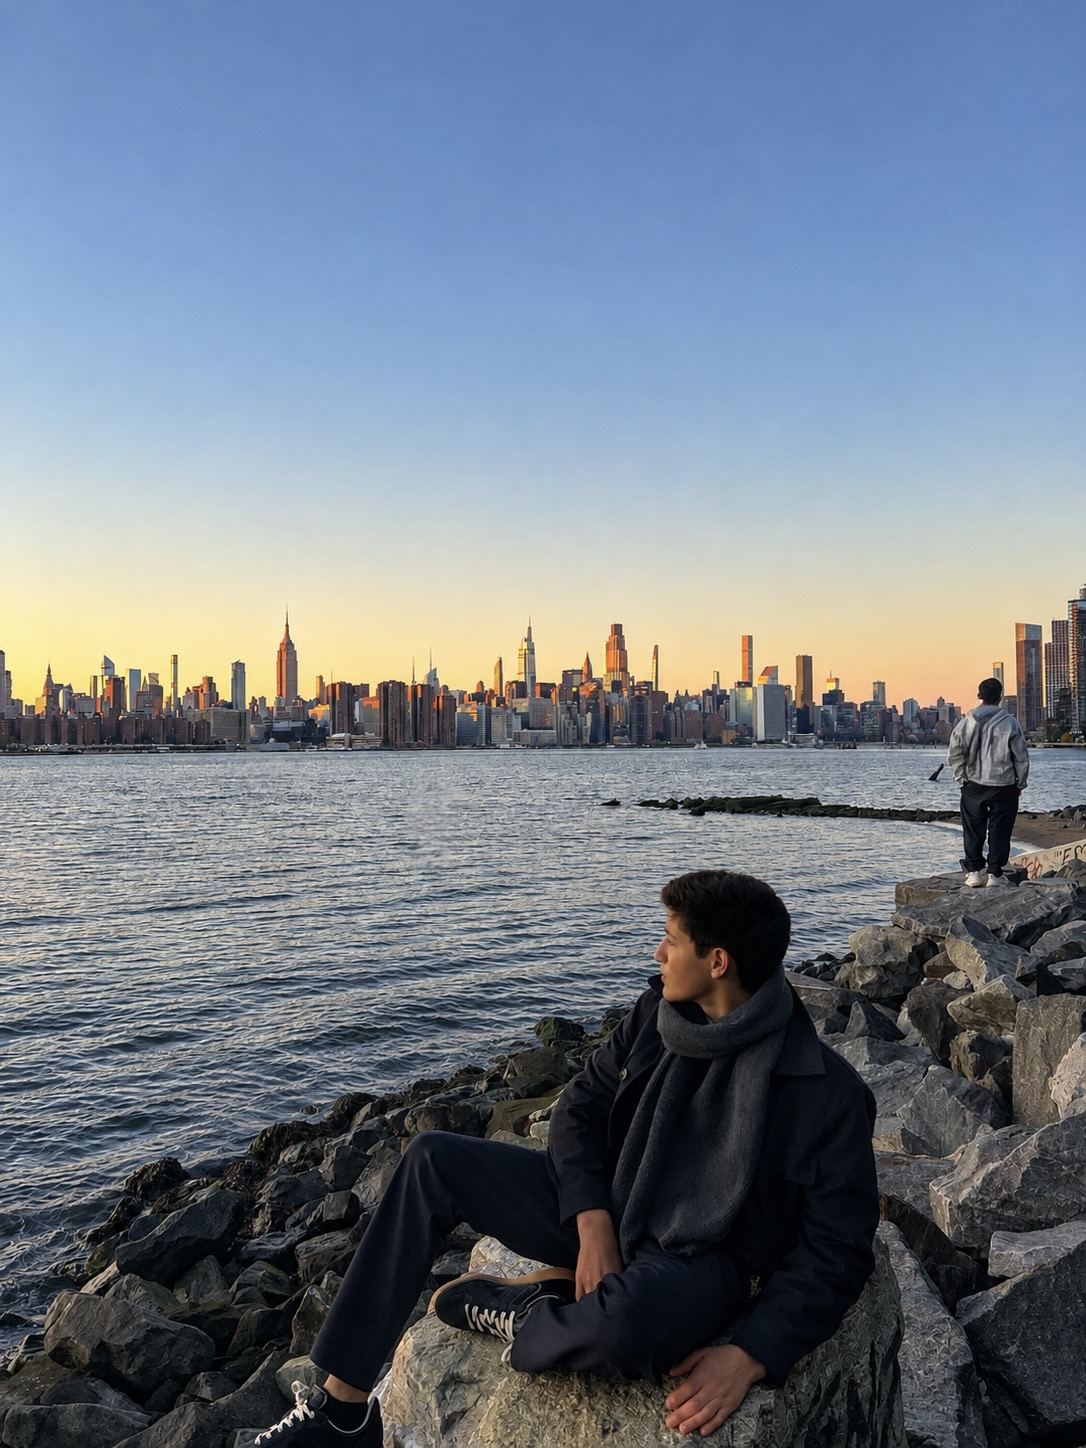
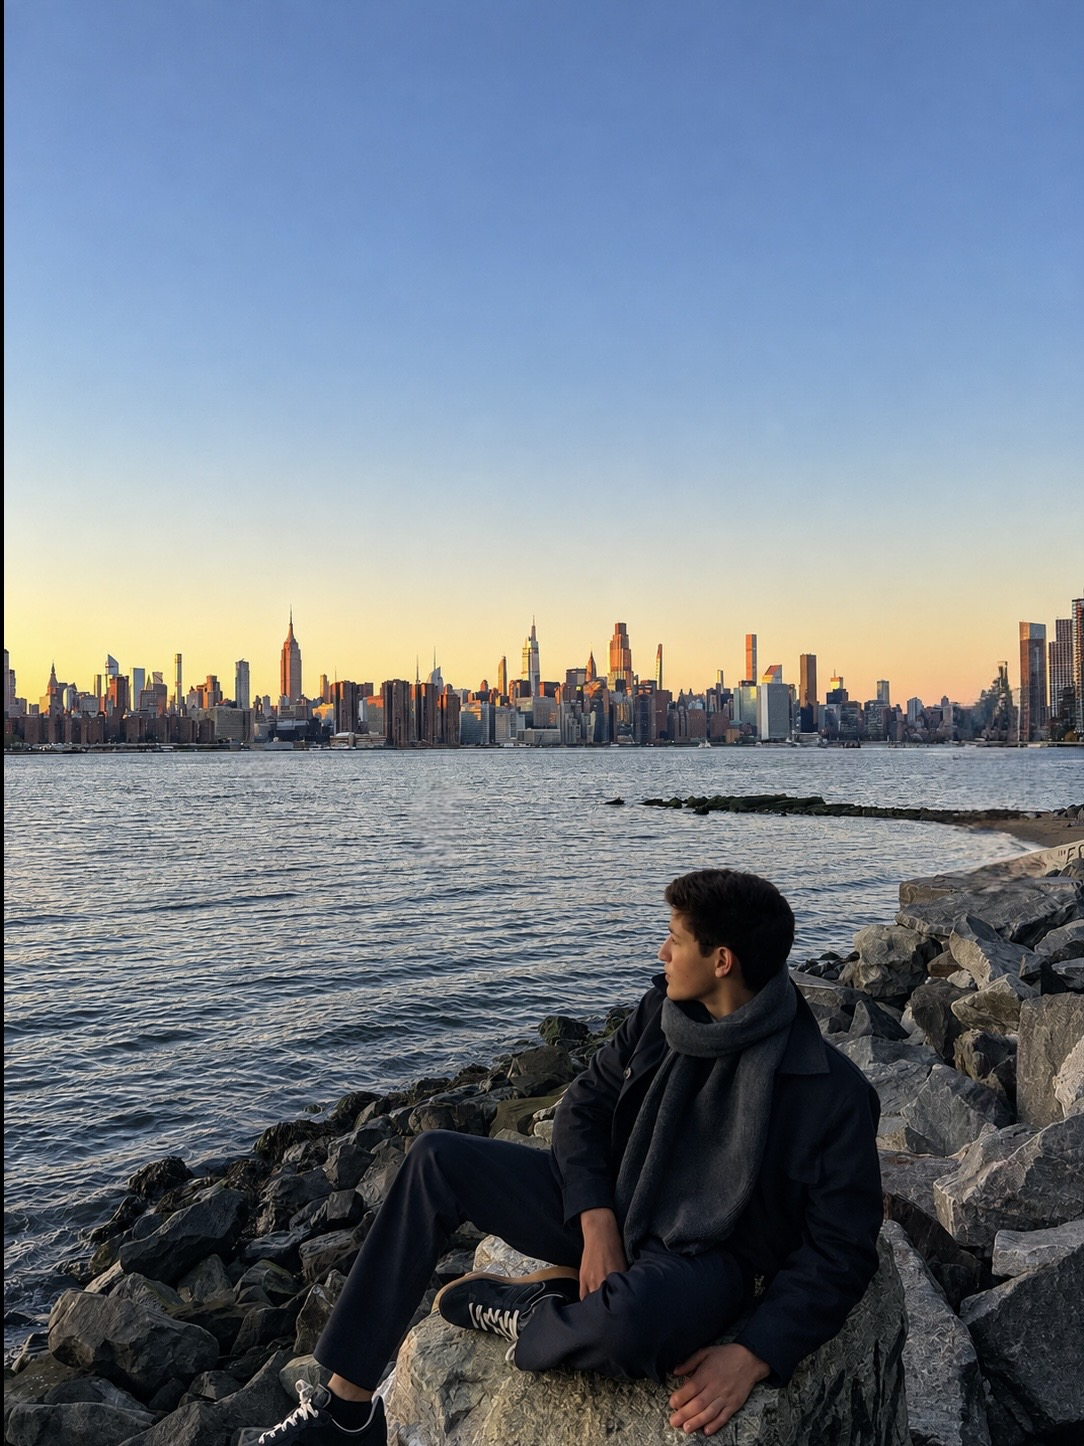
Paleta de marca igual al CRM + nueva foto founder

diff --git a/index.html b/index.html
@@ -11,15 +11,16 @@
    ========================================================= */
 :root{
   --canvas:#f5f5f7;
-  --surface:#ffffff;
-  --ink:#1d1d1f;
+  --surface:#FFFFFF;
+  --ink:#0B0B0C;
   --ink-2:#6e6e73;
   --border:#d2d2d7;
   --border-strong:#c7c7cc;
-  --accent:#5170ff;
-  --accent-ink:#ffffff;
-  --accent-tint:rgba(81,112,255,0.08);
-  --accent-border:rgba(81,112,255,0.32);
+  --accent:#2F5BEA;
+  --accent-hover:#2449C4;
+  --accent-ink:#FFFFFF;
+  --accent-tint:rgba(47,91,234,0.08);
+  --accent-border:rgba(47,91,234,0.32);
   --radius-pill:980px;
   --radius-card:18px;
   --maxw:1120px;
@@ -47,7 +48,7 @@ body{
 img{ max-width:100%; display:block; }
 a{ color:inherit; text-decoration:none; }
 ::selection{ background:var(--accent); color:#fff; }
-input::placeholder, textarea::placeholder{ color:rgba(29,29,31,0.38); }
+input::placeholder, textarea::placeholder{ color:rgba(11,11,12,0.38); }
 
 h1,h2,h3{ font-weight:600; margin:0; }
 
@@ -102,10 +103,10 @@ section > .wrap{ padding-block:clamp(76px,11vw,150px); }
 .btn:hover svg{ transform:translateX(2px); }
 
 .btn-accent{ background:var(--accent); color:var(--accent-ink); }
-.btn-accent:hover{ background:#3d59f5; }
+.btn-accent:hover{ background:var(--accent-hover); }
 
 .btn-on-accent{ background:#fff; color:var(--accent); }
-.btn-on-accent:hover{ background:rgba(255,255,255,0.86); }
+.btn-on-accent:hover{ background:rgba(255,255,255,0.86); color:var(--accent-hover); }
 
 /* =========================================================
    HEADER — se condensa con blur al hacer scroll
@@ -272,7 +273,7 @@ section > .wrap{ padding-block:clamp(76px,11vw,150px); }
 .strip-arrow[hidden]{ display:none; }
 .strip-arrow.prev{ left:-18px; }
 .strip-arrow.next{ right:-18px; }
-.strip-arrow:hover{ border-color:var(--accent); color:var(--accent); }
+.strip-arrow:hover{ border-color:var(--accent-hover); color:var(--accent-hover); }
 .strip-arrow:disabled{ opacity:0.35; cursor:default; }
 .strip-arrow:disabled:hover{ border-color:var(--border); color:var(--ink); }
 
@@ -292,7 +293,7 @@ section > .wrap{ padding-block:clamp(76px,11vw,150px); }
 .mock-head span{ color:var(--ink-2); font-weight:500; }
 .chat{ display:flex; align-items:center; gap:10px; padding:10px 14px; border-bottom:1px solid #ececf0; }
 .chat:last-child{ border-bottom:0; }
-.av{ width:30px; height:30px; border-radius:50%; flex:none; background:#e8e8ed; color:var(--ink-2); display:grid; place-items:center; font-size:12px; font-weight:600; }
+.av{ width:30px; height:30px; border-radius:50%; flex:none; background:#e8e8ed; color:var(--ink); display:grid; place-items:center; font-size:12px; font-weight:600; }
 .chat-body{ flex:1; min-width:0; }
 .chat-name{ font-weight:600; }
 .chat-msg{ color:var(--ink-2); white-space:nowrap; overflow:hidden; text-overflow:ellipsis; }
@@ -306,8 +307,8 @@ section > .wrap{ padding-block:clamp(76px,11vw,150px); }
 .lead small{ color:var(--ink-2); font-size:11.5px; }
 .lead.won{ background:#e9f8ee; border-color:#bfe8cb; }
 .tag{ display:inline-block; margin-top:4px; padding:1px 7px; border-radius:980px; font-size:10.5px; font-weight:600; background:var(--accent-tint); color:var(--accent); }
-.reminder{ display:flex; gap:8px; align-items:center; margin:0 12px 12px; padding:9px 11px; border-radius:10px; background:var(--accent); color:#fff; font-size:12.5px; font-weight:500; }
-.mock-note{ margin-top:10px; font-size:11.5px; color:var(--ink-2); }
+.reminder{ display:flex; gap:8px; align-items:center; margin:0 12px 12px; padding:9px 11px; border-radius:10px; background:var(--accent); color:var(--accent-ink); font-size:12.5px; font-weight:500; }
+.mock-note{ margin-top:10px; font-size:11.5px; color:var(--ink); }
 @media (max-width:420px){ .pipe{ gap:6px; padding:10px; } .lead{ padding:7px; } .lead b{ font-size:11.5px; } .lead small{ font-size:10.5px; } .col-title{ font-size:9.5px; letter-spacing:0.04em; } .tag{ font-size:9.5px; padding:1px 5px; } }
 
 
@@ -345,7 +346,7 @@ section > .wrap{ padding-block:clamp(76px,11vw,150px); }
   max-width:600px;
   font-size:clamp(1rem,2.3vw,1.1875rem);
   line-height:1.6;
-  color:rgba(255,255,255,0.82);
+  color:var(--accent-ink);
   font-weight:400;
   text-wrap:pretty;
 }
@@ -356,7 +357,7 @@ section > .wrap{ padding-block:clamp(76px,11vw,150px); }
   align-items:center;
   gap:18px;
 }
-.cta-final .hint{ font-size:13.5px; color:rgba(255,255,255,0.75); }
+.cta-final .hint{ font-size:13.5px; color:var(--accent-ink); }
 
 /* =========================================================
    FOOTER
@@ -371,7 +372,7 @@ section > .wrap{ padding-block:clamp(76px,11vw,150px); }
 }
 .footer-links{ display:flex; flex-wrap:wrap; align-items:center; gap:24px; font-size:14px; }
 .footer-links a{ display:inline-flex; align-items:center; gap:8px; color:var(--ink-2); transition:color var(--dur-fast) var(--ease); }
-.footer-links a:hover{ color:var(--ink); }
+.footer-links a:hover{ color:var(--accent-hover); }
 .footer-copy{ font-size:13.5px; color:var(--ink-2); }
 
 /* =========================================================
